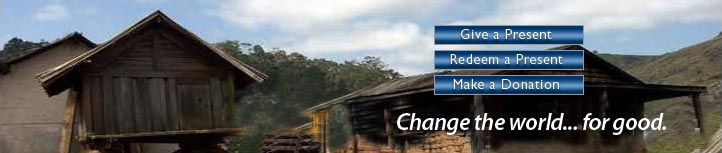
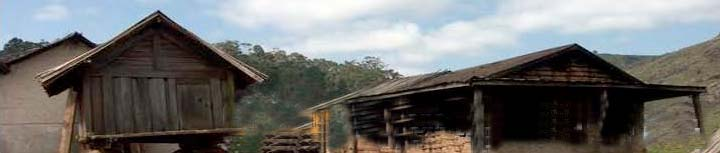
Update on images and stylesheets for DT front-end

diff --git a/public/stylesheets/dt/widgets.css b/public/stylesheets/dt/widgets.css
@@ -1,4 +1,161 @@
+/* ------------------------------
+LOGO
+------------------------------ */
+#logo {
+	margin:12px 0 12px 24px;
+}
+#logo, #logo a {
+	display:block;
+	width:200px;
+	height:46px;
+	/images/dt/logo.gif
+}
+#logo a {
+	background:url('/images/dt/logo.gif') no-repeat;
+	text-decoration:none;
+}
+#logo span {
+	visibility:hidden;
+}
+
+/* ------------------------------
+NAV
+------------------------------ */
+#nav {
+	list-style:none;
+	width:605px;
+	margin:auto;
+}
+#nav li {
+	float:left;
+	background-repeat:no-repeat;
+}
+#nav li, #nav li a {
+	display:block;
+	height:22px;
+}
+#nav li a { text-decoration:none; }
+#nav li span { visibility:hidden; }
+#nav li a:link, #nav li a:visited { background-position:0 0; }
+#nav li a.current:link, #nav li a.current:visited { background-position:0 22px; }
+#nav li a:hover, #nav li a:active { background-position:0 22px; }
+#nav-about-us, #nav-about-us a { width:94px; }
+#nav-about-us { background-image:url('/images/dt/nav/about_us.gif'); }
+#nav-donortrust, #nav-donortrust a { width:84px; }
+#nav-donortrust {background-image:url('/images/dt/nav/projects.gif'); }
+#nav-get-involved, #nav-get-involved a { width:113px; }
+#nav-get-involved { background-image:url('/images/dt/nav/get_involved.gif'); }
+#nav-school-programs, #nav-school-programs a { width:133px; }
+#nav-school-programs {background-image:url('/images/dt/nav/school_programs.gif'); }
+#nav-resources, #nav-resources a { width:97px; }
+#nav-resources { background-image:url('/images/dt/nav/resources.gif'); }
+#nav-contact, #nav-contact a { width:84px; }
+#nav-contact { background-image:url('/images/dt/nav/contact.gif'); }
+/* ------------------------------
+PROJECT NAV
+------------------------------ */
+#project-nav {
+	margin-top:12px;
+	list-style:none;
+}
+#project-nav li {
+	float:left;
+	padding:5px 16px 6px 16px;
+	background-repeat:no-repeat;
+	background-position:16px 5px;
+	border-right:1px #999 solid;
+}
+#project-nav li, #nav li a {
+	display:block;
+	height:13px;
+}
+#project-nav li a {text-decoration:none; }
+#project-nav li span { visibility:hidden; }
+
+#project-nav-overview, #project-nav-about-us a { width:56px; }
+#project-nav-overview { background-image:url('/images/dt/project_nav/overview.gif'); }
+#project-nav-overview.current, #project-nav-about-us.current a { width:68px; }
+#project-nav-overview.current { background-image:url('/images/dt/project_nav/overview-on.gif'); }
+
+#project-nav-project, #project-nav-project a { width:41px; }
+#project-nav-project {background-image:url('/images/dt/project_nav/project.gif'); }
+#project-nav-project.current, #project-nav-project.current a { width:51px; }
+#project-nav-project.current {background-image:url('/images/dt/project_nav/project-on.gif'); }
+
+#project-nav-village, #project-nav-village a { width:37px; }
+#project-nav-village { background-image:url('/images/dt/project_nav/village.gif'); }
+#project-nav-village.current, #project-nav-village.current a { width:48px; }
+#project-nav-village.current { background-image:url('/images/dt/project_nav/village-on.gif'); }
+
+#project-nav-nation, #project-nav-nation a { width:39px; }
+#project-nav-nation {background-image:url('/images/dt/project_nav/nation.gif'); }
+#project-nav-nation.current, #project-nav-nation.current a { width:49px; }
+#project-nav-nation.current {background-image:url('/images/dt/project_nav/nation-on.gif'); }
+
+#project-nav-community, #project-nav-community a { width:67px; }
+#project-nav-community { background-image:url('/images/dt/project_nav/community.gif'); }
+#project-nav-community.current, #project-nav-community.current a { width:84px; }
+#project-nav-community.current { background-image:url('/images/dt/project_nav/community-on.gif'); }
+
+div.line {
+	clear:left;
+	border-top:1px solid #999;
+	height:0px;
+}
+
+/* ------------------------------
+GENERAL TEXT CONTENT
+------------------------------ */
+div.article {
+	font-family:Georgia, Times, "Times New Roman", serif;
+}
+div.article-title {
+	font-weight:bold;
+}
+
+/* ------------------------------
+FOOTER AREA
+------------------------------ */
 #copyright {}
 #footeremail {}
 #footerphone {}
 #footerterms {margin-top:.6em;}
+
+/* ------------------------------
+PROJECT SEARCH
+------------------------------ */
+#project-searchcontainer {
+	margin-top:12px;
+	background:url('/images/dt/search_bg.gif') repeat-x 0 1px;
+	height:45px;
+	position:relative;
+}
+#project-searchleft {
+	width:5px;
+	height:45px;
+	position:absolute;
+	left:0;
+	top:0;
+	background:url('/images/dt/search_left.gif') no-repeat;
+}
+#project-searchbox {
+	height:43px;
+	border-top:solid 1px #999;
+	border-bottom:solid 1px #AAA;
+	margin:0 5px;
+}
+#project-searchbox span {
+	display:block;
+	color:#666;
+	font-size:.8em;
+	margin:5px;
+	text-transform:uppercase;
+}
+#project-searchright {
+	width:5px;
+	height:45px;
+	position:absolute;
+	right:0;
+	top:0;
+	background:url('/images/dt/search_right.gif') no-repeat;
+}

diff --git a/public/stylesheets/dt/grid.css b/public/stylesheets/dt/grid.css
@@ -1,16 +1,85 @@
+#top { position:relative; }
 #container {
-	width:722px;
+	width:720px;
 	margin:auto;
 }
-
+#contentcontainer, #contentcontainer-2col, #contentcontainer-1col {
+	margin-top:12px;
+}
+/* 3-column layout */
+#contentcontainer {
+	border-left:240px solid #FFF;
+	border-right:240px solid #FFF;
+	float:left;
+	width:240px;
+}
+#contentcontainer #rail-left {
+	float:left;
+	width:240px;
+	margin-left:-240px;
+	position:relative;
+}
+#contentcontainer #content {
+	float:left;
+	width:240px;
+	margin-right:-240px;
+}
+#contentcontainer #rail-right {
+	float:right;
+	width:240px;
+	margin-right:-240px;
+	position:relative;
+}
+/* 2-column layout */
+#contentcontainer-2col #content {
+	float:left;
+	width:480px;
+	margin-right:-480px;
+}
+#contentcontainer-2col #rail-right {
+	float:right;
+	width:240px;
+	position:relative;
+}
+/* 1-column layout */
+#contentcontainer-1col #content {
+}
+/* content margins */
+#content div.contentmargin {
+	margin:0 4px;
+}
+#rail-left div.contentmargin {
+	margin:0 6px 0 0;
+}
+#rail-right div.contentmargin {
+	margin:0 0 0 6px;
+}
 
 #masthead {
 	height:153px;
 	border:1px solid #999;
+	width:720px;
+	margin:auto;
+}
+#masthead div.donate {
+	background:url('/images/dt/masthead_overlay.png') transparent repeat-x;
+	padding:108px 12px 0 12px;
+	height:45px;
+	width:228px;
+	float:right;
 }
 
 #footer {
-	margin-top:1em;
-	padding-top:1em;
+	clear:both;
 	border-top:1px solid #666;
+	width:720px;
+	margin:auto;
+	padding-top:12px;
+	margin-top:12px;
+	margin-bottom:12px;
+}
+div.clear {
+	clear:both;
+	height:0;
+	font-size:0px;
 }

diff --git a/public/stylesheets/dt/type.css b/public/stylesheets/dt/type.css
@@ -22,5 +22,17 @@ a:active {
 }
 
 #footer {
-	font-size:.9em;	
+	font-size:.8em;
+}
+
+div.column-title {
+	color:#666;
+	font-weight:bold;
+	background:#CCC;
+	border:1px solid #999;
+	width:196px;
+	height:72px;
+	padding:40px 16px 16px 16px;
+	margin-bottom:.8em;
+	overflow:hidden;
 }
